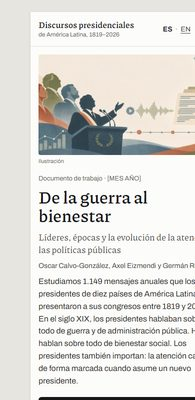
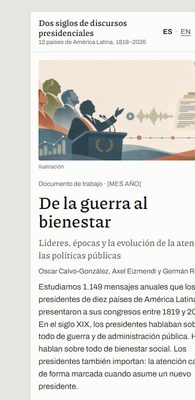
Name the site Two Centuries of Presidential Speeches
Claude-Session: https://claude.ai/code/session_0196qWri7uVkMBkScxakXebN

diff --git a/pages/Site-Download.dc.html b/pages/Site-Download.dc.html
@@ -24,8 +24,8 @@ a:hover{color:#000000;text-decoration-thickness:2px}
 <header style="background: #FCFCFA; border-bottom: 1px solid #E2E0D8">
 <div style="max-width: 1280px; margin: 0 auto; padding: 16px 32px; box-sizing: border-box; display: flex; flex-wrap: wrap; align-items: center; justify-content: space-between; gap: 14px 32px">
 <a href="Site-Home-Paper.dc.html" style="display: flex; flex-direction: column; gap: 3px; text-decoration: none; color: #17171A">
-<span style="font-family: Piazzolla, Georgia, serif; font-size: 21px; font-weight: 600; line-height: 1.15">Latin American Presidential Speeches</span>
-<span style="font-family: Archivo, 'Helvetica Neue', Arial, sans-serif; font-size: 13px; color: #6B6862">Annual speeches to congress, 1819–2026</span>
+<span style="font-family: Piazzolla, Georgia, serif; font-size: 21px; font-weight: 600; line-height: 1.15">Two Centuries of Presidential Speeches</span>
+<span style="font-family: Archivo, 'Helvetica Neue', Arial, sans-serif; font-size: 13px; color: #6B6862">Annual speeches to congress in 12 Latin American countries, 1819–2026</span>
 </a>
 <nav aria-label="Main" style="display: flex; flex-wrap: wrap; align-items: center; gap: 6px 24px; font-family: Archivo, 'Helvetica Neue', Arial, sans-serif; font-size: 15px">
 <a href="Site-Home-Paper.dc.html" style="color: #17171A; text-decoration: none; padding: 6px 0; border-bottom: 2px solid transparent">Home</a>
@@ -176,7 +176,7 @@ a:hover{color:#000000;text-decoration-thickness:2px}
 <section style="max-width: 1280px; margin: 0 auto; padding: 48px 32px 0; box-sizing: border-box; display: flex; flex-wrap: wrap; gap: 28px">
 <div style="flex: 3 1 560px; min-width: 0; padding: 24px 26px; border: 1px solid #E3E3DE; border-radius: 10px; background: #FFFFFF; display: flex; flex-direction: column; gap: 12px">
 <h2 style="margin: 0; font-family: Piazzolla, Georgia, serif; font-size: 22px; font-weight: 600">Cite the data and the paper</h2>
-<p style="margin: 0; font-size: 14px; line-height: 1.6">Calvo-González, Oscar, Axel Eizmendi and Germán Reyes. [YEAR]. Latin American Presidential Speeches, 1819–2026. Version 1.0. [REPOSITORY]. https://doi.org/[VERSION DOI].</p>
+<p style="margin: 0; font-size: 14px; line-height: 1.6">Calvo-González, Oscar, Axel Eizmendi and Germán Reyes. [YEAR]. Two Centuries of Presidential Speeches: Annual Speeches to Congress in 12 Latin American Countries, 1819–2026. Version 1.0. [REPOSITORY]. https://doi.org/[VERSION DOI].</p>
 <p style="margin: 0; font-size: 14px; line-height: 1.6">Calvo-González, Oscar, Axel Eizmendi and Germán Reyes. [YEAR]. “From Warfare to Welfare: Leaders, Eras, and the Evolution of Policy Attention.” [JOURNAL OR SERIES].</p>
 <div style="display: flex; flex-wrap: wrap; gap: 8px">
 <button type="button" style="min-height: 36px; padding: 0 14px; border-radius: 6px; border: 1px solid #C9C9C2; background: #FFFFFF; font-family: inherit; font-size: 14px; color: #121212">Copy</button>

diff --git a/pages/Site-Home-Paper.dc.html b/pages/Site-Home-Paper.dc.html
@@ -24,8 +24,8 @@ a:hover{color:#000000;text-decoration-thickness:2px}
 <header style="background: #FCFCFA; border-bottom: 1px solid #E2E0D8">
 <div style="max-width: 1280px; margin: 0 auto; padding: 16px 32px; box-sizing: border-box; display: flex; flex-wrap: wrap; align-items: center; justify-content: space-between; gap: 14px 32px">
 <a href="Site-Home-Paper.dc.html" style="display: flex; flex-direction: column; gap: 3px; text-decoration: none; color: #17171A">
-<span style="font-family: Piazzolla, Georgia, serif; font-size: 21px; font-weight: 600; line-height: 1.15">Latin American Presidential Speeches</span>
-<span style="font-family: Archivo, 'Helvetica Neue', Arial, sans-serif; font-size: 13px; color: #6B6862">Annual speeches to congress, 1819–2026</span>
+<span style="font-family: Piazzolla, Georgia, serif; font-size: 21px; font-weight: 600; line-height: 1.15">Two Centuries of Presidential Speeches</span>
+<span style="font-family: Archivo, 'Helvetica Neue', Arial, sans-serif; font-size: 13px; color: #6B6862">Annual speeches to congress in 12 Latin American countries, 1819–2026</span>
 </a>
 <nav aria-label="Main" style="display: flex; flex-wrap: wrap; align-items: center; gap: 6px 24px; font-family: Archivo, 'Helvetica Neue', Arial, sans-serif; font-size: 15px">
 <a href="Site-Home-Paper.dc.html" aria-current="page" style="color: #17171A; text-decoration: none; font-weight: 600; padding: 6px 0; border-bottom: 2px solid #17171A">Home</a>
@@ -367,7 +367,7 @@ a:hover{color:#000000;text-decoration-thickness:2px}
 <h3 style="margin: 0; font-size: 17px; font-weight: 650">Cite the paper and the data</h3>
 <div style="background: #FFFFFF; border: 1px solid #E2E0D8; border-radius: 6px; padding: 18px 20px; display: flex; flex-direction: column; gap: 12px; font-size: 14px; line-height: 1.6">
 <p style="margin: 0">Calvo-González, Oscar, Axel Eizmendi and Germán Reyes. [YEAR]. “From Warfare to Welfare: Leaders, Eras, and the Evolution of Policy Attention.” [JOURNAL OR SERIES].</p>
-<p style="margin: 0">Calvo-González, Oscar, Axel Eizmendi and Germán Reyes. [YEAR]. Latin American Presidential Speeches, 1819–2026. Version 1.0. [REPOSITORY]. https://doi.org/[VERSION DOI].</p>
+<p style="margin: 0">Calvo-González, Oscar, Axel Eizmendi and Germán Reyes. [YEAR]. Two Centuries of Presidential Speeches: Annual Speeches to Congress in 12 Latin American Countries, 1819–2026. Version 1.0. [REPOSITORY]. https://doi.org/[VERSION DOI].</p>
 <div style="display: flex; flex-wrap: wrap; gap: 8px; margin-top: 4px">
 <button type="button" style="min-height: 36px; padding: 0 14px; border-radius: 6px; border: 1px solid #C9C7BF; background: #FFFFFF; font-family: inherit; font-size: 14px; color: #17171A">Copy</button>
 <button type="button" style="min-height: 36px; padding: 0 14px; border-radius: 6px; border: 1px solid #C9C7BF; background: #FFFFFF; font-family: inherit; font-size: 14px; color: #17171A">BibTeX</button>

diff --git a/pages/Site-Atlas.dc.html b/pages/Site-Atlas.dc.html
@@ -24,8 +24,8 @@ a:hover{color:#000000;text-decoration-thickness:2px}
 <header style="background: #FCFCFA; border-bottom: 1px solid #E2E0D8">
 <div style="max-width: 1280px; margin: 0 auto; padding: 16px 32px; box-sizing: border-box; display: flex; flex-wrap: wrap; align-items: center; justify-content: space-between; gap: 14px 32px">
 <a href="Site-Home-Paper.dc.html" style="display: flex; flex-direction: column; gap: 3px; text-decoration: none; color: #17171A">
-<span style="font-family: Piazzolla, Georgia, serif; font-size: 21px; font-weight: 600; line-height: 1.15">Latin American Presidential Speeches</span>
-<span style="font-family: Archivo, 'Helvetica Neue', Arial, sans-serif; font-size: 13px; color: #6B6862">Annual speeches to congress, 1819–2026</span>
+<span style="font-family: Piazzolla, Georgia, serif; font-size: 21px; font-weight: 600; line-height: 1.15">Two Centuries of Presidential Speeches</span>
+<span style="font-family: Archivo, 'Helvetica Neue', Arial, sans-serif; font-size: 13px; color: #6B6862">Annual speeches to congress in 12 Latin American countries, 1819–2026</span>
 </a>
 <nav aria-label="Main" style="display: flex; flex-wrap: wrap; align-items: center; gap: 6px 24px; font-family: Archivo, 'Helvetica Neue', Arial, sans-serif; font-size: 15px">
 <a href="Site-Home-Paper.dc.html" style="color: #17171A; text-decoration: none; padding: 6px 0; border-bottom: 2px solid transparent">Home</a>

diff --git a/pages/Site-Words.dc.html b/pages/Site-Words.dc.html
@@ -24,8 +24,8 @@ a:hover{color:#000000;text-decoration-thickness:2px}
 <header style="background: #FCFCFA; border-bottom: 1px solid #E2E0D8">
 <div style="max-width: 1280px; margin: 0 auto; padding: 16px 32px; box-sizing: border-box; display: flex; flex-wrap: wrap; align-items: center; justify-content: space-between; gap: 14px 32px">
 <a href="Site-Home-Paper.dc.html" style="display: flex; flex-direction: column; gap: 3px; text-decoration: none; color: #17171A">
-<span style="font-family: Piazzolla, Georgia, serif; font-size: 21px; font-weight: 600; line-height: 1.15">Latin American Presidential Speeches</span>
-<span style="font-family: Archivo, 'Helvetica Neue', Arial, sans-serif; font-size: 13px; color: #6B6862">Annual speeches to congress, 1819–2026</span>
+<span style="font-family: Piazzolla, Georgia, serif; font-size: 21px; font-weight: 600; line-height: 1.15">Two Centuries of Presidential Speeches</span>
+<span style="font-family: Archivo, 'Helvetica Neue', Arial, sans-serif; font-size: 13px; color: #6B6862">Annual speeches to congress in 12 Latin American countries, 1819–2026</span>
 </a>
 <nav aria-label="Main" style="display: flex; flex-wrap: wrap; align-items: center; gap: 6px 24px; font-family: Archivo, 'Helvetica Neue', Arial, sans-serif; font-size: 15px">
 <a href="Site-Home-Paper.dc.html" style="color: #17171A; text-decoration: none; padding: 6px 0; border-bottom: 2px solid transparent">Home</a>

diff --git a/pages/Paper-Phone-ES.dc.html b/pages/Paper-Phone-ES.dc.html
@@ -23,8 +23,8 @@ a:hover{color:#000000;text-decoration-thickness:2px}
 
 <header style="display: flex; align-items: center; justify-content: space-between; gap: 12px; padding: 12px 16px; border-bottom: 1px solid #E2E0D8">
 <a href="Paper-Phone-ES.dc.html" style="display: flex; flex-direction: column; gap: 2px; text-decoration: none; color: #17171A; min-width: 0">
-<span style="font-family: Piazzolla, Georgia, serif; font-size: 17px; font-weight: 600; line-height: 1.15">Discursos presidenciales</span>
-<span style="font-size: 12px; color: #6B6862">de América Latina, 1819–2026</span>
+<span style="font-family: Piazzolla, Georgia, serif; font-size: 17px; font-weight: 600; line-height: 1.15">Dos siglos de discursos presidenciales</span>
+<span style="font-size: 12px; color: #6B6862">12 países de América Latina, 1819–2026</span>
 </a>
 <div style="display: flex; align-items: center; gap: 10px; flex: none">
 <span style="display: flex; align-items: center; gap: 6px; font-size: 14px"><span style="font-weight: 600">ES</span><span style="color: #9A978F">·</span><a href="Main.dc.html" lang="en" style="color: #4A4844">EN</a></span>

diff --git a/index.html b/index.html
@@ -5,7 +5,7 @@
 <meta name="robots" content="noindex, nofollow">
 <meta name="viewport" content="width=device-width, initial-scale=1">
 <meta http-equiv="refresh" content="0; url=pages/Site-Home-Paper.dc.html">
-<title>Latin American Presidential Speeches</title>
+<title>Two Centuries of Presidential Speeches</title>
 </head>
 <body style="font: 16px/1.5 Arial, sans-serif; margin: 40px">
 <p><a href="pages/Site-Home-Paper.dc.html">Open the home page</a> · <a href="sketches.html">All sketches</a></p>

diff --git a/README.md b/README.md
@@ -1,4 +1,4 @@
-# Speeches website sketches
+# Two Centuries of Presidential Speeches: website sketches
 
 Design sketches for the website that will accompany *From Warfare to Welfare: Leaders, Eras, and the Evolution of Policy Attention* (Calvo-González, Eizmendi and Reyes).
 
